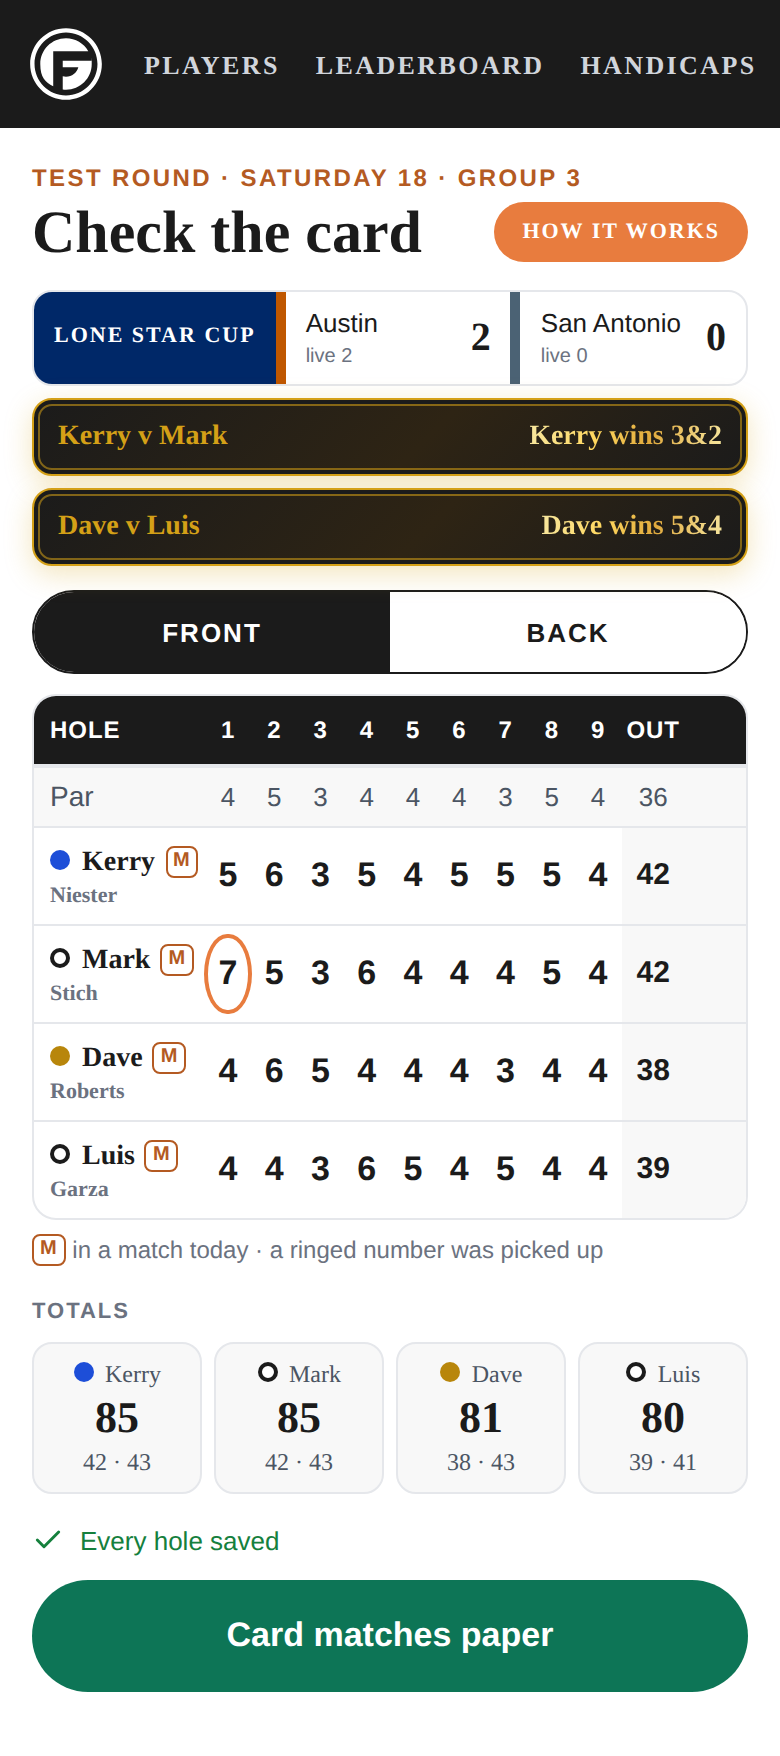
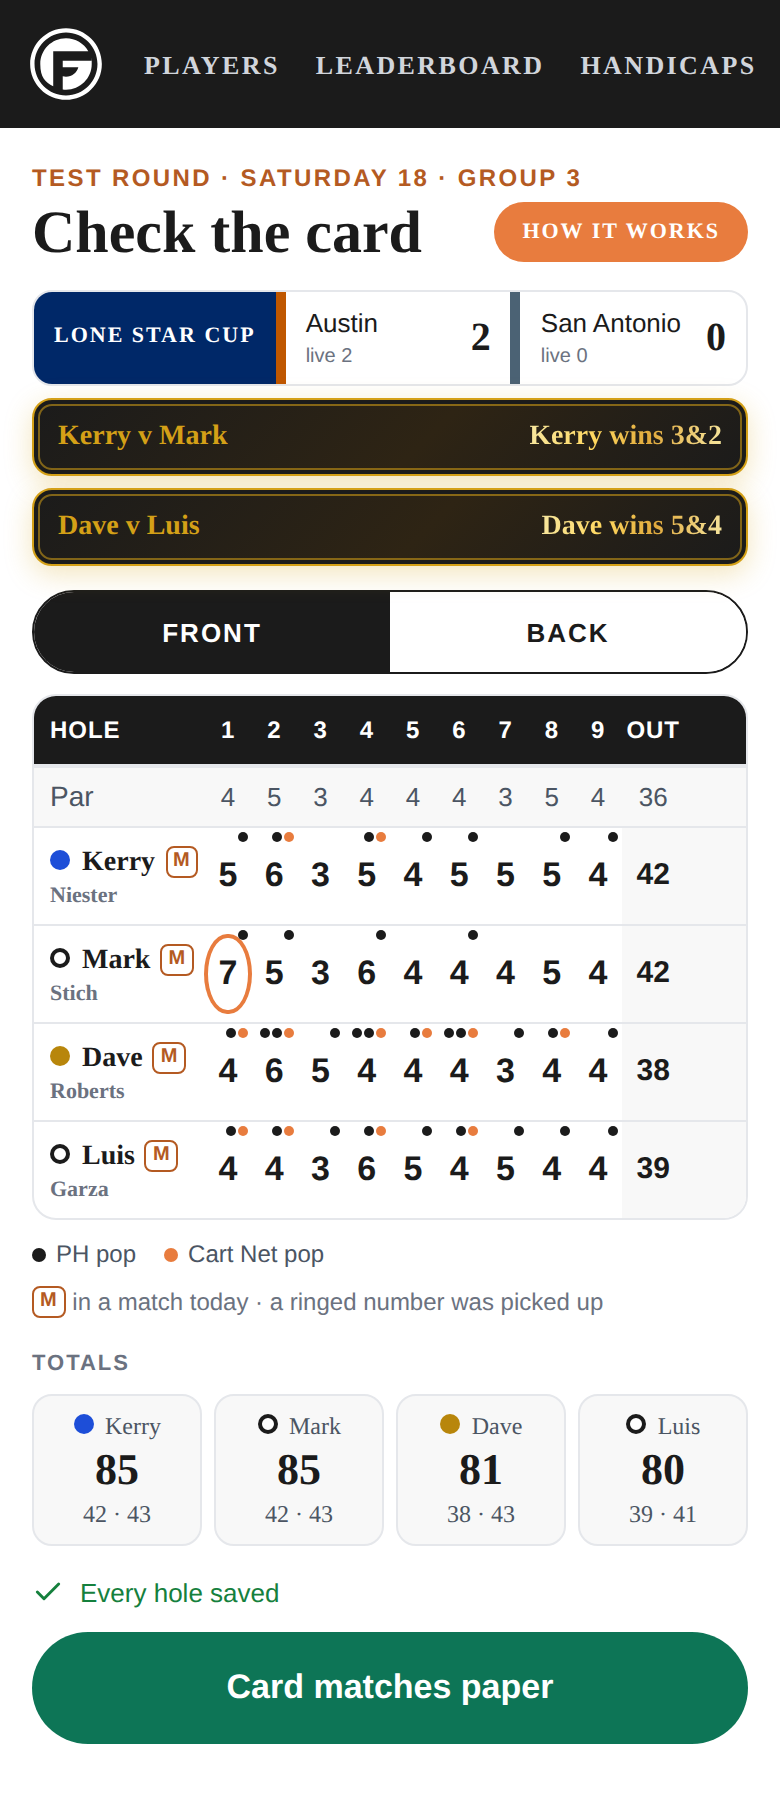
Score entry: PH and Team/Cart Net pops as dots (v2.499.0)
Claude-Session: https://claude.ai/code/session_01PeGTnLppc6bpJPrSmUWsVP

diff --git a/transaction-tracker/templates/score_entry.html b/transaction-tracker/templates/score_entry.html
@@ -81,6 +81,18 @@
         .se-score .v.empty { color: #9CA3AF; }
         .se-score .v.waiting { color: #B45A22; }
         .se-score .r { font-size: 11px; font-weight: 600; color: #4B5563; }
+        /* POPS (Kerry 2026-09-26: "simply show PH pops at 100% and Team/cart
+           Net pops ... Don't want it in text"). One dot per stroke: black is
+           the playing handicap at 100%, orange is the team game's. */
+        .se-score { position: relative; }
+        .se-pops { position: absolute; top: -4px; right: -8px; display: flex; flex-direction: column; gap: 2px; }
+        .se-pops.cell { top: 2px; right: 2px; flex-direction: row; gap: 1px; }
+        .se-pop { width: 7px; height: 7px; border-radius: 50%; background: #1B1B1B; display: block; }
+        .se-pop.t { background: #E87C3E; }
+        .se-pops.cell .se-pop { width: 5px; height: 5px; }
+        .se-popkey { display: flex; gap: 14px; align-items: center; font-size: 12px; color: #4B5563; margin-top: 8px; }
+        .se-popkey span { display: inline-flex; align-items: center; gap: 5px; }
+        .se-card td { position: relative; }
         .se-strip { display: grid; gap: 4px; }
         .se-cell { height: 44px; border-radius: 8px; display: flex; flex-direction: column; align-items: center;
                    justify-content: center; background: #F8F8F8; border: 1px solid #E5E7EB; cursor: pointer;
@@ -352,9 +364,28 @@
         const holeWaiting = (n) => queue.some((o) => o.hole === n);
         const allDone = () => holeOrder().every(holeDone);
         const keeping = () => card.lock.state === "mine" && !following;
-        function strokeNote(cid, n) {
-            const k = ((card.strokes || {})[String(cid)] || {})[String(n)];
-            return k ? (k === 1 ? "gets 1 stroke here" : "gets " + k + " strokes here") : "";
+        // Dots, not words: k PH pops (black) + t team pops (orange).
+        function popsOf(cid, n) {
+            const g = (m) => Math.max(0, Number(((m || {})[String(cid)] || {})[String(n)]) || 0);
+            return {k: g(card.strokes), t: g(card.team_strokes)};
+        }
+        function popDots(cids, n, small) {
+            if (!cids || cids.length !== 1) return "";
+            const p = popsOf(cids[0], n);
+            if (!p.k && !p.t) return "";
+            const d = "<i class=\"se-pop\"></i>".repeat(p.k) + "<i class=\"se-pop t\"></i>".repeat(p.t);
+            return `<span class="se-pops${small ? " cell" : ""}" aria-hidden="true">${d}</span>`;
+        }
+        function popLabel(cids, n) {
+            if (!cids || cids.length !== 1) return "";
+            const p = popsOf(cids[0], n), tg = (card.team_game || {}).label || "Team Net";
+            return [p.k ? p.k + " handicap stroke" + (p.k > 1 ? "s" : "") : "", p.t ? p.t + " " + tg + " stroke" + (p.t > 1 ? "s" : "") : ""].filter(Boolean).join(", ");
+        }
+        function popKey() {
+            const any = (m) => Object.values(m || {}).some((h) => Object.values(h || {}).some((v) => v > 0));
+            const a = any(card.strokes), b = any(card.team_strokes);
+            if (!a && !b) return "";
+            return `<div class="se-popkey">${a ? `<span><i class="se-pop"></i>PH pop</span>` : ""}${b ? `<span><i class="se-pop t"></i>${esc((card.team_game || {}).label || "Team Net")} pop</span>` : ""}</div>`;
         }
         // The tee a player plays, from the tee sheet's legend (card.tees).
         function teeOf(cid) {
@@ -484,11 +515,11 @@
                 const d = cur.v == null || !h.par ? null : cur.v - h.par;
                 const rel = d == null ? "" : (WORDS[String(d)] || (d > 0 ? "+" + d : String(d)));
                 const meta2 = [s.team ? s.meta : null, s.team ? null : teeOf(s.cid).name || null, !s.team && s.ph != null ? "PH " + s.ph : null,
-                               s.team ? null : strokeNote(s.cid, hole), vsText(s.cids) || null].filter(Boolean).join(" · ");
+                               vsText(s.cids) || null].filter(Boolean).join(" · ");
                 return `<div class="se-row" data-key="${s.key}">${teeBar(s.cids)}
                     <div class="se-who"><div class="se-name">${esc(s.name)}${mtag(s.cids)}</div><div class="se-meta">${esc(meta2)}</div></div>
                     <button type="button" class="se-minus" data-act="step" data-d="-1" aria-label="One less for ${esc(s.name)}">&minus;</button>
-                    <div class="se-score"><div class="v ${cur.v == null ? "empty" : cur.waiting ? "waiting" : ""}">${shown}</div><div class="r">${rel}</div></div>
+                    <div class="se-score" ${popLabel(s.cids, hole) ? `aria-label="${esc(popLabel(s.cids, hole))}"` : ""}>${popDots(s.cids, hole)}<div class="v ${cur.v == null ? "empty" : cur.waiting ? "waiting" : ""}">${shown}</div><div class="r">${rel}</div></div>
                     <button type="button" class="se-plus" data-act="step" data-d="1" aria-label="One more for ${esc(s.name)}">+</button>
                   </div>`;
             }).join("");
@@ -510,6 +541,7 @@
                 ${hio}
                 ${maxNote ? `<div class="se-warn">${ICON.warn}<span>${esc(maxNote)}</span></div>` : ""}
                 <div class="se-stack">${rows}</div>
+                ${popKey()}
                 ${card.strokes_note ? `<div class="se-note">Handicap strokes: ${esc(card.strokes_note)}.</div>` : ""}
                 <div style="margin-top:16px" class="se-lbl">Group card</div>
                 <div class="se-strip" style="margin-top:8px;grid-template-columns:repeat(${Math.min(order.length, 9)}, minmax(0, 1fr))">${cells}</div>
@@ -585,7 +617,7 @@
                     const on = checkPick && checkPick.key === s.key && checkPick.h === n;
                     const cls = (on ? "picked" : checkChanged.has(s.key + "|" + n) ? "changed" : "")
                         + (markOf(s.key, n) === "picked_up" ? " pu" : "");
-                    return `<td><button type="button" class="cell ${cls}" data-act="cpick" data-key="${s.key}" data-h="${n}" aria-label="${esc(s.name)}, hole ${n}: ${v == null ? "no score" : v}">${v == null ? "–" : v}</button></td>`;
+                    return `<td><button type="button" class="cell ${cls}" data-act="cpick" data-key="${s.key}" data-h="${n}" aria-label="${esc(s.name)}, hole ${n}: ${v == null ? "no score" : v}">${v == null ? "–" : v}</button>${popDots(s.cids, n, true)}</td>`;
                 }).join("");
                 return `<tr><td class="nm">${nameCell(s, true)}</td>${cells}<td class="tot">${tot(s.key, hs) || ""}</td>${eighteen ? `<td class="tot">${back ? tot(s.key, nums) || "" : ""}</td>` : ""}</tr>`;
             }).join("");
@@ -609,6 +641,7 @@
                 ${matchStrip()}
                 ${seg}
                 <div class="se-card se-check ${eighteen ? "" : "nine"}"><table>${colgroup(hs.length, eighteen)}<thead>${head}</thead><tbody>${par}${rows}</tbody></table></div>
+                ${popKey()}
                 ${subs.some((x) => matchOf(x.cids)) ? `<div class="se-legend"><span class="se-mtag" style="margin-left:0">M</span> in a match today · a ringed number was picked up</div>` : ""}
                 ${picker}
                 <div class="se-lbl" style="margin:14px 0 6px">Totals</div>
@@ -763,7 +796,7 @@
                     const fl = isMe && flagsMine.some((f) => f.hole === n);
                     const cell = v == null ? "" : markOf(s.key, n) === "picked_up" ? `<span class="se-pu">${v}</span>` : v;
                     const cls = fl ? "flagged" : (isMe && flagPick === n ? "picked" : "");
-                    return `<td class="${cls}">${isMe && canTap ? `<button type="button" class="hole" data-act="pickhole" data-h="${n}" aria-label="Hole ${n}: ${cell}. Tap if it's wrong">${cell}</button>` : cell}</td>`;
+                    return `<td class="${cls}">${popDots(s.cids, n, true)}${isMe && canTap ? `<button type="button" class="hole" data-act="pickhole" data-h="${n}" aria-label="Hole ${n}: ${cell}. Tap if it's wrong">${cell}</button>` : cell}</td>`;
                 }).join("");
                 const tot = all.reduce((a, n) => a + (value(s.key, n).v || 0), 0);
                 return `<tr class="${isMe ? "me" : ""}"><td class="nm">${nameCell(s, false)}</td>${cells}<td>${sub || ""}</td>${eighteen ? `<td>${withTotal ? tot || "" : ""}</td>` : ""}</tr>`;
@@ -850,6 +883,7 @@
                 ${hioW}
                 <div class="se-gap"></div>
                 ${tables}
+                ${popKey()}
                 ${matchStrip()}
                 <div class="se-gap"></div>
                 ${done ? `<div class="se-copy" style="margin-bottom:14px">${mine && signedFor(who) && !flagsMine.length ? `${esc(first(kept) || "The scorekeeper")} checked this card against the paper card and signed it for the group. If a hole on your row is wrong, tap that number and ${esc(first(kept) || "the scorekeeper")} gets the flag.` : mine && !signedSelf(who) && !(flagsMine.length) ? `Check each hole on your row. Signing tells your manager it's right. If one is wrong, tap that number (or tap <strong>Something's wrong</strong>) and ${esc(first(kept) || "the scorekeeper")} gets the flag to fix it. Only your card reopens.` : "Signing tells your manager this card is right."}</div>` : `<div class="se-copy">Live. This card fills in as ${esc(first(kept) || "the scorekeeper")} enters each hole. You'll sign it at the end.</div>`}

diff --git a/transaction-tracker/static/js/version.js b/transaction-tracker/static/js/version.js
@@ -1,5 +1,14 @@
-window.TGF_VERSION = "2.498.5";
+window.TGF_VERSION = "2.499.0";
 window.TGF_CHANGELOG = [
+  {
+    version: "2.499.0",
+    date: "2026-09-26",
+    title: "Score entry: PH pops and Team/Cart Net pops shown as dots",
+    changes: [
+      "Kerry, 2026-09-26: 'We also need some way to simply show PH pops at 100% and Team/cart Net pops on the hole by hole scoring. Don't want it in text necessarily.' Each stroke is a dot: black for the playing handicap at 100%, orange for the team game. They sit beside the score on every hole and in the corner of each cell on Check the card and on the player's card, with a two-item key under the rows. The 'gets 1 stroke here' text is gone.",
+      "The team number is the starter sheet's own team_handicap (allowance on the unrounded course handicap, rounded once, off the lowest in the field), snapshotted when the round is built from PAIRINGS into the new se_game_handicaps table, so the phone and the sheet cannot disagree. A PREVIEW round has no PAIRINGS, so it computes PH and the team number from the same pieces with the preview group as the field, and says so. A player with no index or tee gets no dots, never a guess."
+    ]
+  },
   {
     version: "2.498.5",
     date: "2026-09-26",

diff --git a/transaction-tracker/email_parser/score_entry.py b/transaction-tracker/email_parser/score_entry.py
@@ -555,6 +555,24 @@ def _ensure_score_entry_tables(conn: sqlite3.Connection) -> None:
         UNIQUE(round_id, subject_key, hole_number));
     CREATE INDEX IF NOT EXISTS idx_se_hole_marks_group ON se_hole_marks(group_id);
 
+    -- THE TEAM GAME'S HANDICAP, snapshotted when the round is built (Kerry
+    -- 2026-09-26: "some way to simply show PH pops at 100% and Team/cart Net
+    -- pops on the hole by hole scoring"). The number is the starter sheet's
+    -- own team_handicap (allowance on the unrounded course handicap, rounded
+    -- once, off the lowest in the field), never recomputed here, so the dots
+    -- on the phone and the TEAM column on the sheet cannot disagree. The
+    -- handicap lock applies: a later index change does not move it.
+    CREATE TABLE IF NOT EXISTS se_game_handicaps (
+        id           INTEGER PRIMARY KEY AUTOINCREMENT,
+        round_id     INTEGER NOT NULL REFERENCES se_rounds(id) ON DELETE CASCADE,
+        customer_id  INTEGER NOT NULL REFERENCES customers(customer_id),
+        game         TEXT NOT NULL CHECK(game IN ('team_net')),
+        handicap     INTEGER NOT NULL,
+        unit         TEXT,
+        basis        TEXT,
+        at           TEXT NOT NULL,
+        UNIQUE(round_id, customer_id, game));
+
     CREATE TABLE IF NOT EXISTS se_event_versions (
         event_id   INTEGER PRIMARY KEY,
         version    INTEGER NOT NULL DEFAULT 0,
@@ -812,6 +830,11 @@ def seed_round_from_pairings(event_id: int, holes: str = "9", *, round_date=None
                       "seat": p.get("cart_pos")} for p in g.get("players") or []],
             db_path=db_path)
         skipped += res.get("skipped_no_customer_id", [])
+    set_game_handicaps(rid, {p["customer_id"]: p.get("team_handicap")
+                             for g in groups for p in g.get("players") or []
+                             if p.get("customer_id")},
+                       unit=pack.get("team_unit"), basis=pack.get("team_basis"),
+                       db_path=db_path)
     out = {"round_id": rid, "groups": len(groups),
            "course_holes": len(course_holes)}
     if skipped:
@@ -895,14 +918,92 @@ def create_preview_round(event_id: int, customer_ids: list[int], db_path=None,
         event_id, holes, round_date=(ev.get("event_date") or "")[:10] or None,
         label=label, course_holes=course, course_id=ev.get("course_id"),
         created_by="preview", db_path=db_path)["round_id"]
+    hc = _preview_handicaps(event_id, ids, tees or {}, holes, db_path=db_path)
     g = upsert_group(rid, 1, label="Preview group", start_hole=_first_hole(ev, holes),
                      players=[{"customer_id": c, "display_name": names[c], "seat": i + 1,
+                               "playing_handicap": (hc["ph"] or {}).get(c),
                                **({"tee": tees[c]} if tees and tees.get(c) else {})}
                               for i, c in enumerate(ids)], db_path=db_path)
+    set_game_handicaps(rid, hc["team"], unit=hc["unit"], basis=hc["basis"], db_path=db_path)
     out = {"round_id": rid, "group_id": g["group_id"], "reused": bool(existing),
-           "course_holes": len(course), "holes": holes}
+           "course_holes": len(course), "holes": holes,
+           "handicaps": {"ph": hc["ph"], "team": hc["team"], "unit": hc["unit"],
+                         "basis": hc["basis"]}}
+    if hc.get("error"):
+        out["handicaps_error"] = hc["error"]
     if len(course) < holes:
         out["warning"] = f"course card gave {len(course)} of {holes} holes"
+    return out
+
+
+def set_game_handicaps(round_id: int, by_cid: dict, *, unit=None, basis=None,
+                       game: str = "team_net", db_path=None) -> int:
+    """Snapshot each player's team-game handicap for this round. A player
+    with no number (no index, no tee) is left out, and the phone shows no
+    team dots for him rather than a guess."""
+    n = 0
+    with _closing(_conn(db_path)) as conn:
+        for cid, h in (by_cid or {}).items():
+            if h is None:
+                continue
+            conn.execute(
+                "INSERT INTO se_game_handicaps (round_id, customer_id, game, handicap, unit, basis, at) "
+                "VALUES (?,?,?,?,?,?,?) ON CONFLICT(round_id, customer_id, game) DO UPDATE SET "
+                "handicap = excluded.handicap, unit = excluded.unit, basis = excluded.basis, "
+                "at = excluded.at",
+                (round_id, int(cid), game, int(h), unit, basis, _now()))
+            n += 1
+        conn.commit()
+    return n
+
+
+def _preview_handicaps(event_id: int, ids: list, tees: dict, holes: int, db_path=None) -> dict:
+    """PH at 100% and the team handicap for a PREVIEW group, through the
+    starter sheet's own pieces (tee rows, the locked index, the team dial,
+    team_handicaps_for_groups). A preview has no PAIRINGS, so its field is
+    the preview group itself; the basis says so. An 18-hole preview on a
+    nine-hole event rates each tee as twice its nine."""
+    out = {"ph": {}, "team": {}, "unit": None, "basis": None}
+    try:
+        from email_parser import database as db
+        from email_parser.handicap_calc import playing_handicap as ph_fn, course_handicap as ch_fn
+        from email_parser.live_scoring import SEED_LIVE_SCORING_CONFIG, team_allowance_pct
+        with db._connect(db_path) as conn:
+            ev = dict(conn.execute("SELECT * FROM events WHERE id = ?", (event_id,)).fetchone())
+            legend = db.event_tee_legend(conn, event_id, ev)
+            tee_rows, _b, _n = db._event_tee_rows(conn, ev, legend)
+            balls, allowance, basis = db.event_team_net_dial(conn, ev)
+        idx_map = db._handicap_index_18_by_customer(db_path, as_of=db._event_index_as_of(ev))
+        players = []
+        for c in ids:
+            tee = tee_rows.get((tees.get(c) or "").strip())
+            idx = idx_map.get(int(c))
+            p = {"customer_id": c, "name": str(c)}
+            players.append(p)
+            if idx is None or not tee:
+                continue
+            slope, rating, par = tee["slope"], tee["rating"], tee["par"]
+            nine = (rating or 0) < 50
+            if holes == 18 and nine:
+                rating, par = rating * 2, par * 2
+            use = round(idx / 2.0, 1) if (holes == 9 and nine) else idx
+            p["playing_handicap"] = ph_fn(use, slope, rating, par)
+            p["course_handicap_raw"] = ch_fn(use, slope, rating, par)
+            out["ph"][c] = p["playing_handicap"]
+        unit = "cart" if len(ids) < 16 else "group"
+        res = team_allowance_pct(SEED_LIVE_SCORING_CONFIG["games"]["team_net"],
+                                 2 if unit == "cart" else 4, balls)
+        if res.get("pct") is not None and "manager override" not in (basis or ""):
+            allowance = res["pct"] / 100.0
+        db.team_handicaps_for_groups([{"players": players}], allowance, unit)
+        out["team"] = {p["customer_id"]: p.get("team_handicap") for p in players
+                       if p.get("team_handicap") is not None}
+        out["unit"] = unit
+        out["basis"] = (f"{'Cart' if unit == 'cart' else 'Team'} Net: best {balls} of "
+                        f"{2 if unit == 'cart' else 4}, {round(allowance * 100)}%, off the lowest "
+                        f"in this preview group")
+    except Exception as e:     # a preview without handicaps still opens
+        out["error"] = str(e)
     return out
 
 
@@ -1811,6 +1912,22 @@ def _strokes_by_player(players, course) -> dict:
     return out
 
 
+def _team_strokes(conn, round_id: int, course) -> dict:
+    """Team/Cart Net pops per hole off the snapshotted team handicap, the
+    same allocation as the PH pops (full card, by stroke index)."""
+    rows = conn.execute("SELECT customer_id, handicap, unit, basis FROM se_game_handicaps "
+                        "WHERE round_id = ? AND game = 'team_net'", (round_id,)).fetchall()
+    if not rows:
+        return {"team_strokes": {}, "team_game": None}
+    alloc = _strokes_by_player([{"customer_id": r[0], "playing_handicap": r[1]} for r in rows],
+                               course)
+    alloc.pop("_unresolved", None)
+    unit = rows[0][2]
+    return {"team_strokes": alloc,
+            "team_game": {"unit": unit, "label": "Cart Net" if unit == "cart" else "Team Net",
+                          "basis": rows[0][3]}}
+
+
 def _tee_legend(conn, event_id: int) -> dict:
     """{band: {color, ring, tee_name, band_label}} from the ONE tee legend
     the starter sheet and print pack use (database.event_tee_legend, v2.437+
@@ -1864,6 +1981,7 @@ def _card_extras(conn, g, group_id: int) -> dict:
             "keeper_signs": keeper_signs(g["event_id"]),
             "tees": _tee_legend(conn, g["event_id"]),
             "strokes": _strokes_by_player(players, course),
+            **_team_strokes(conn, g["round_id"], course),
             "strokes_note": "strokes per GG convention" if g["holes"] == 9 else None}
 
 

diff --git a/transaction-tracker/test_score_entry_ui.py b/transaction-tracker/test_score_entry_ui.py
@@ -405,6 +405,30 @@ with sync_playwright() as p:
     check("changing to a triple on the check card asks too; Ball in hole is stored",
           se.get_group_card(gidm)["marks"].get("c:101") == {"2": "holed"}, se.get_group_card(gidm)["marks"])
     db.set_app_setting("lsc_matches", "")
+
+    print("pops as dots: black = PH at 100%, orange = Team/Cart Net")
+    rp = se.create_round(900, 9, label="pops", course_holes=course(9))["round_id"]
+    gp = se.upsert_group(rp, 1, players=[
+        {"customer_id": 101, "display_name": "Kerry Niester", "seat": 1, "playing_handicap": 0},
+        {"customer_id": 102, "display_name": "Mark Stich", "seat": 2, "playing_handicap": 4}])["group_id"]
+    se.set_game_handicaps(rp, {101: 0, 102: 3}, unit="cart", basis="Cart Net 85%")
+    pp = open_as_kerry(se.make_group_token(gp))
+    row = pp.locator(".se-row").nth(1)
+    check("hole 1 (index 1): Mark's score carries 1 black dot and 1 orange",
+          row.locator(".se-pop:not(.t)").count() == 1 and row.locator(".se-pop.t").count() == 1,
+          row.inner_html()[:400])
+    check("the low man shows no dots", pp.locator(".se-row").nth(0).locator(".se-pop").count() == 0)
+    check("no stroke text on the row", "stroke here" not in pp.inner_text("body"))
+    check("a small key names the two dots",
+          "PH pop" in pp.inner_text(".se-popkey") and "Cart Net pop" in pp.inner_text(".se-popkey"))
+    play(pp, 9)
+    pp.wait_for_selector("text=Check the card")
+    pp.wait_for_timeout(800)
+    cell = pp.locator("button.cell[data-key='c:102'][data-h='4']").locator("xpath=..")
+    check("the check card puts the dots in the cell's corner (hole 4: 1 PH, 0 team)",
+          cell.locator(".se-pops.cell .se-pop:not(.t)").count() == 1 and cell.locator(".se-pop.t").count() == 0,
+          cell.inner_html())
+    pp.screenshot(path=os.path.join(SHOTS, "pops-check-card.png"), full_page=True) if "SHOTS" in globals() else None
     b.close()
 
 try:

diff --git a/transaction-tracker/test_score_entry.py b/transaction-tracker/test_score_entry.py
@@ -449,6 +449,20 @@ check("a PH the card's indexes can't carry is reported, not guessed", st.get("_u
 check("a nine carries the GG-convention note",
       se.get_group_card(sg)["strokes_note"] == "strokes per GG convention")
 
+print("Team/Cart Net pops (Kerry 2026-09-26: PH pops at 100% and team pops, as dots)")
+check("no team handicap on file, no team pops", se.get_group_card(sg)["team_strokes"] == {}
+      and se.get_group_card(sg)["team_game"] is None)
+check("the snapshot stores who has a number, skips who hasn't",
+      se.set_game_handicaps(sr, {101: 0, 102: 3, 105: None}, unit="cart", basis="Cart Net 85%") == 2)
+tc = se.get_group_card(sg)
+check("team pops come off the snapshotted team handicap, by stroke index",
+      tc["team_strokes"].get("102") == {"3": 1, "7": 1, "1": 1}, tc["team_strokes"])
+check("the low man gets no team pops", not tc["team_strokes"].get("101"), tc["team_strokes"])
+check("the game is named for the unit", tc["team_game"]["label"] == "Cart Net", tc["team_game"])
+se.set_game_handicaps(sr, {102: 2}, unit="cart", basis="Cart Net 85%")
+check("a re-seed updates the number in place",
+      se.get_group_card(sg)["team_strokes"].get("102") == {"3": 1, "7": 1})
+
 print("cart-sign QR (Kerry #666 B), behind the score_entry_qr dial")
 pack = db.get_event_print_pack(900)
 res = se.attach_cart_sign_qr(pack)
@@ -469,6 +483,8 @@ db.set_app_setting("score_entry_qr", "")
 print("PREVIEW round + links + close")
 pv = se.create_preview_round(900, [101, 102])
 check("preview round is created", "round_id" in pv and not pv["reused"], pv)
+check("the preview reports its handicaps, never errors on a missing index",
+      "handicaps" in pv and isinstance(pv["handicaps"]["ph"], dict), pv)
 pv2 = se.create_preview_round(900, [101, 102, 103])
 check("a second call reuses the preview round", pv2["round_id"] == pv["round_id"] and pv2["reused"], pv2)
 check("the preview is never the PAIRINGS round",

diff --git a/transaction-tracker/docs/claude/score-entry.md b/transaction-tracker/docs/claude/score-entry.md
@@ -323,6 +323,21 @@ link (R8, a member send — Kerry OKs each batch) come later; the email link
 is the strong identity path, "tap your name" from a shared code is weak and
 is accepted for the beta because every action is logged by device.
 
+## Pops as dots (v2.499.0)
+
+Kerry 2026-09-26: "some way to simply show PH pops at 100% and Team/cart Net pops
+on the hole by hole scoring. Don't want it in text necessarily."
+
+- One dot per stroke. Black = the playing handicap at 100% (`card.strokes`,
+  unchanged), orange = the team game (`card.team_strokes`, labelled by
+  `card.team_game.label`, Cart Net or Team Net). Both are allocated full-card by
+  stroke index. A plus handicap draws no dots (a plus comes off the round).
+- `se_game_handicaps` (round, customer_id, game='team_net', handicap, unit, basis)
+  is the snapshot. `seed_round_from_pairings` copies the starter sheet's
+  `team_handicap`, `team_unit` and `team_basis`; `create_preview_round` computes PH
+  and the team number with `_preview_handicaps` from the same helpers, the preview
+  group as the field. `set_game_handicaps` upserts with ON CONFLICT.
+
 ## Won-match shimmer and cup standings (v2.498.5)
 
 Kerry 2026-09-26: "If a match is won, then that heading needs to shimmer kind of
